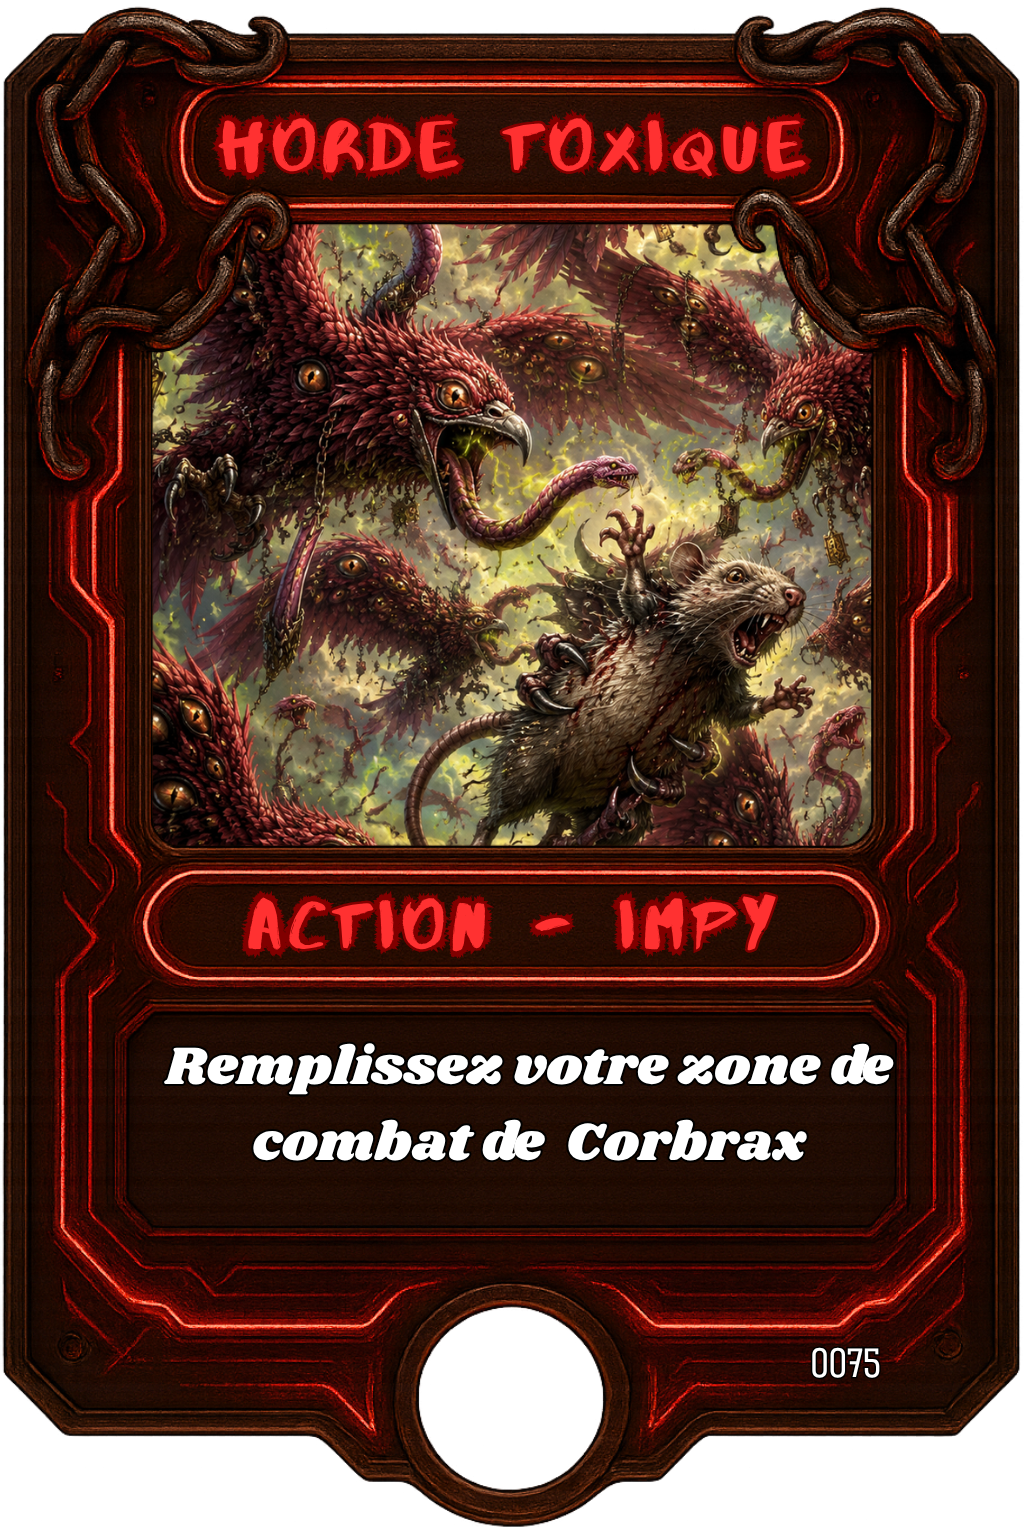
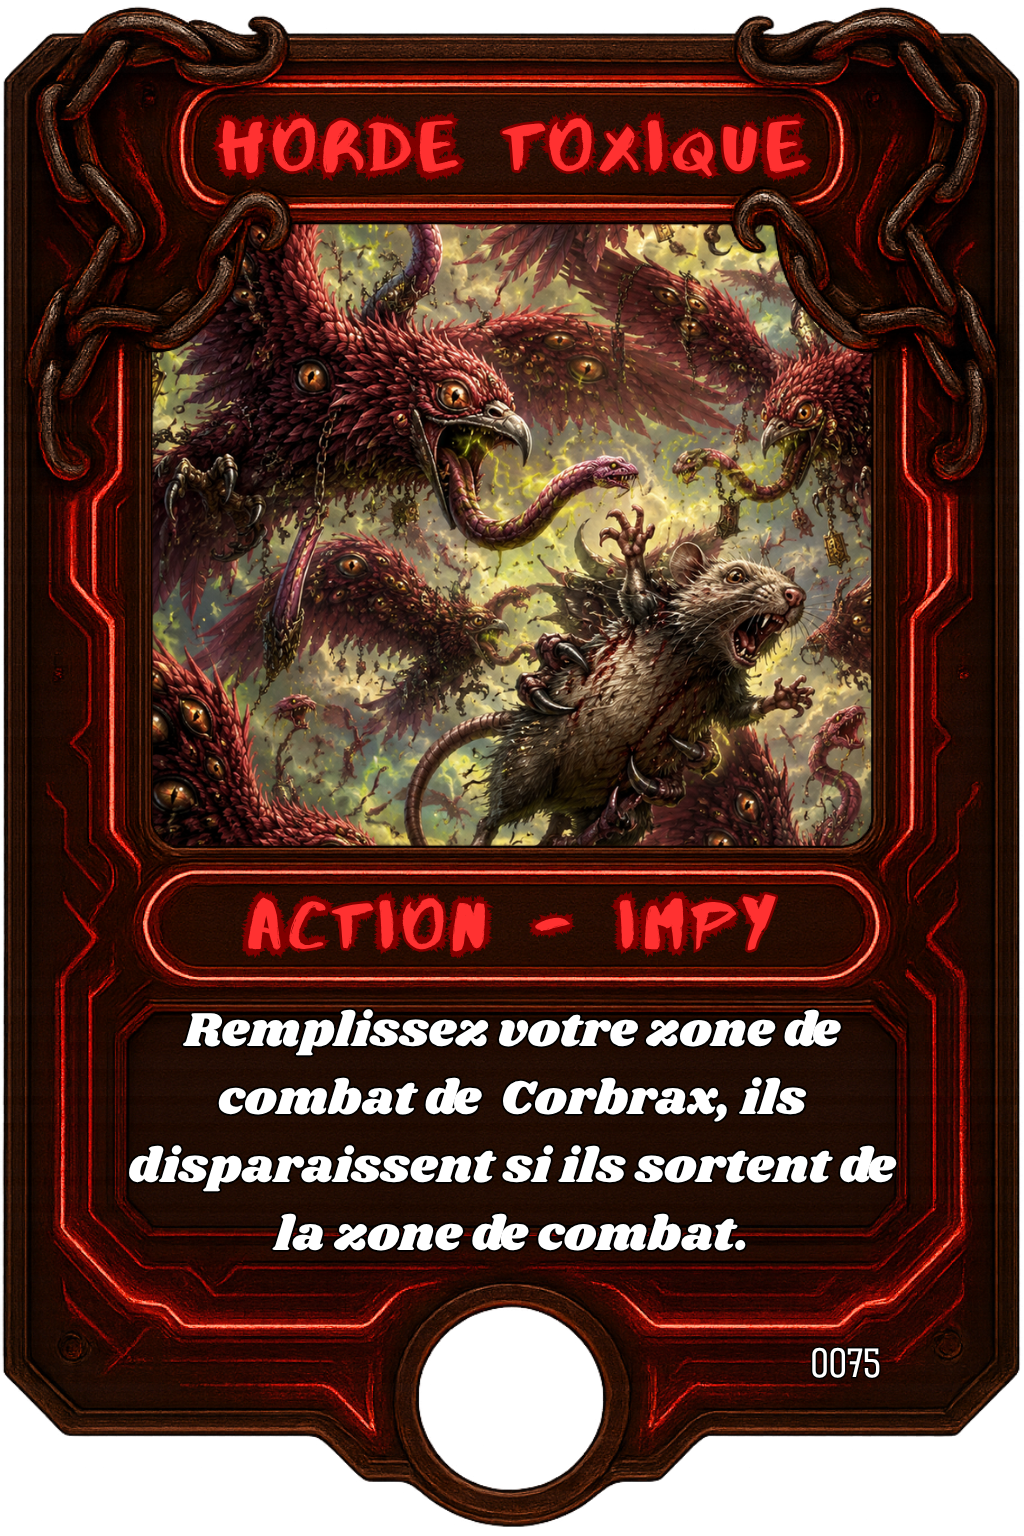
Jetons faction figes, Corbrax disparait sans trace, Poison necessite 1PV reel

Changed region(s): [[0.125, 0.6562, 0.875, 0.8125]]

diff --git a/public/index.html b/public/index.html
@@ -15301,20 +15301,24 @@ function continueResolveFight(from, to){
     }
   }
 
-  // IMPY (nouveau lot) : POISON — anéanti INSTANTANÉMENT par tout combattant
-  // qui le touche en combat. CORRECTIF : auparavant conditionné à
-  // resTo.hpLost>0 / resFrom.hpLost>0 (les dégâts RÉELLEMENT infligés), donc
-  // si le porteur du Poison avait 0 ATK, ou ripostait sur une cible GELÉE
-  // (riposte annulée), le Poison ne se déclenchait jamais alors même qu'un
-  // contact de combat avait bien eu lieu. Désormais indépendant des dégâts :
-  // seul le simple fait de s'être battu compte, comme pour tout combat.
-  // Imuna (C80) reste totalement immunisée, et Rking (C232) — qui "ne perd
-  // jamais de PV en combat" — reste également épargné, des deux côtés.
-  if (getEffectiveHP(to.card) > 0 && hasTag(from.card, 'poison') && to.card.label !== 'C80' && to.card.label !== 'C232') {
+  // IMPY (nouveau lot) : POISON — anéanti par tout combattant qui le touche
+  // en combat, MAIS seulement si ce contact lui a réellement fait perdre au
+  // moins 1 PV (voir resTo.hpLost / resFrom.hpLost, calculés juste au-dessus
+  // par applyDamageWithShield). CORRECTIF (redemandé explicitement) : un
+  // combattant Poison qui ne fait que taper sur du Bouclier (dégâts
+  // entièrement absorbés, hpLost===0) ne tue plus sa cible — il faut un
+  // vrai PV de perdu. Ancienne version (qui déclenchait le Poison sur le
+  // simple fait de s'être battu, même à 0 PV perdu, pour couvrir les cas
+  // d'un porteur à 0 ATK ou d'une riposte annulée par un gel) volontairement
+  // abandonnée : ces cas ne doivent désormais PLUS tuer non plus, puisqu'aucun
+  // PV n'y est perdu. Imuna (C80) reste totalement immunisée, et Rking
+  // (C232) — qui "ne perd jamais de PV en combat" — reste également épargné,
+  // des deux côtés.
+  if (resTo.hpLost > 0 && getEffectiveHP(to.card) > 0 && hasTag(from.card, 'poison') && to.card.label !== 'C80' && to.card.label !== 'C232') {
     to.card.hp = 0;
     pushHistory('pv', `${cardAnchor(to.card.label)} est anéanti par le <strong>POISON</strong> !`);
   }
-  if (getEffectiveHP(from.card) > 0 && hasTag(to.card, 'poison') && from.card.label !== 'C80' && from.card.label !== 'C232') {
+  if (resFrom.hpLost > 0 && getEffectiveHP(from.card) > 0 && hasTag(to.card, 'poison') && from.card.label !== 'C80' && from.card.label !== 'C232') {
     from.card.hp = 0;
     pushHistory('pv', `${cardAnchor(from.card.label)} est anéanti par le <strong>POISON</strong> !`);
   }
@@ -18578,6 +18582,16 @@ function addTempleAphroditeCharge(owner, isClassic){
 const MORT_EFFECT_LABELS = ['T16','C78','C212','C214','C223','C93','T02','C66','C117','C61','C25','C35','C38','C71','C200'];
 
 function discardCard(card, owner, reason='other', context = {}){
+  // IMPY : Corbrax (C76, jeton de Horde toxique/C75) — disparaissent
+  // LITTÉRALEMENT du jeu dès qu'ils quittent la zone de combat, quelle que
+  // soit la raison (mort au combat, sacrifice, effet adverse...) : ni exil,
+  // ni défausse, aucune trace (même principe que la fusion de Fusionner les
+  // tous/C236). Vérifié en tout premier pour primer sur tous les autres cas
+  // spéciaux ci-dessous.
+  if (card.label === 'C76') {
+    pushHistory('info', `${cardAnchor('C76')} disparaît sans laisser de trace en quittant la zone de combat.`);
+    return;
+  }
   // CHIMERIA (8e lot) : Temple d'Aphrodite (C191) — chaque carte "Action"
   // jouée par son propriétaire (donc envoyée en défausse avec reason==='action')
   // lui accorde une charge classique.
@@ -19107,14 +19121,30 @@ function updateDeckCounters(){
 // n'ait pu partir en défausse/exil — pour que ce soit fiable quelle que soit
 // la façon dont le deck a été construit : IA aléatoire, tutoriel, deck
 // personnalisé, partie en ligne...).
+// Figé UNE SEULE FOIS, à la première évaluation qui trouve au moins une
+// carte : les 3 factions de départ de chaque deck, jamais recalculées
+// ensuite. Sans ce figeage, les jetons étaient recalculés à chaque appel à
+// partir des cartes ENCORE dans le deck+la main — donc si une carte d'une 4e
+// faction rejoignait la main/le deck en cours de partie (carte reçue de
+// l'adversaire, effet spécial, etc.), un 4e jeton apparaissait alors qu'il
+// ne devrait JAMAIS y en avoir plus de 3. On identifie les cartes d'origine
+// de CE joueur par le préfixe de leur id (voir uid()/createCard : 'T'/'B'),
+// pas par leur zone actuelle, pour rester exact même si une carte change de
+// main en cours de partie.
+const deckFactionsSnapshot = { top: null, bottom: null };
 function renderDeckFactionBadges(){
   ['top','bottom'].forEach(seat => {
     const container = document.getElementById(seat === 'top' ? 'deckFactionsTop' : 'deckFactionsBottom');
     if (!container) return;
-    const deck = (seat === 'top') ? topDeck : botDeck;
-    const hand = getHandByOwner(seat);
-    const pool = deck.concat(hand);
-    const present = FACTIONS.filter(fac => pool.some(c => hasTag(c, fac)));
+
+    if (!deckFactionsSnapshot[seat]) {
+      const idPrefix = (seat === 'top') ? 'T' : 'B';
+      const wholeGamePool = topDeck.concat(botDeck, topHand, botHand, topLine, botLine, topArts, botArts, topDiscard, botDiscard, exilePile)
+        .filter(c => typeof c.id === 'string' && c.id.startsWith(idPrefix));
+      const snapshot = FACTIONS.filter(fac => wholeGamePool.some(c => hasTag(c, fac)));
+      if (snapshot.length > 0) deckFactionsSnapshot[seat] = snapshot;
+    }
+    const present = deckFactionsSnapshot[seat] || [];
     // Ne reconstruit (et ne rejoue donc l'animation d'apparition) que si
     // l'ensemble des factions affichées a réellement changé. fullRender()
     // appelle cette fonction après quasiment CHAQUE action de jeu (jouer une

diff --git a/public/regles.html b/public/regles.html
@@ -694,7 +694,7 @@ footer{ padding:60px 20px 100px; text-align:center; color:#5f7580; font-size:.85
     <div class="kw-tile kw-poison reveal">
       <img class="tilt-card" src="/cartes/T03.png" alt="Poison" loading="lazy">
       <div class="kw-badge">Poison</div>
-      <p>Toute cible touchée en combat est anéantie, quels que soient ses PV.</p>
+      <p>Toute cible qui perd au moins 1 PV face à lui en combat est anéantie, quels que soient ses PV restants. Un coup entièrement absorbé par du Bouclier (0 PV perdu) ne déclenche pas le Poison.</p>
     </div>
     <div class="kw-tile kw-gele reveal">
       <img class="tilt-card" src="/cartes/0106.png" alt="Gelé" loading="lazy">
@@ -891,7 +891,7 @@ footer{ padding:60px 20px 100px; text-align:center; color:#5f7580; font-size:.85
     <div class="lex-item"><strong>Rapide</strong> — annule l’épuisement d’un Personnage fraîchement posé.</div>
     <div class="lex-item"><strong>Provocateur</strong> — force à cibler ce Personnage en priorité s’il est adjacent à votre cible visée.</div>
     <div class="lex-item"><strong>Esprit</strong> — restreint le combat aux affrontements Esprit-contre-Esprit.</div>
-    <div class="lex-item"><strong>Poison</strong> — anéantit instantanément toute cible touchée en combat.</div>
+    <div class="lex-item"><strong>Poison</strong> — anéantit instantanément toute cible qui perd au moins 1 PV face à lui en combat (un coup entièrement absorbé par du Bouclier ne compte pas).</div>
     <div class="lex-item"><strong>Gelé</strong> — ne peut attaquer ni miner, aucune riposte. Se retire en défaussant une carte au hasard.</div>
     <div class="lex-item"><strong>Poupée / Liaison</strong> — mécanique Wadoo liant une carte à un ennemi choisi.</div>
     <div class="lex-item"><strong>Jeton</strong> — carte générée en jeu par un effet, jamais en booster ni en collection.</div>
